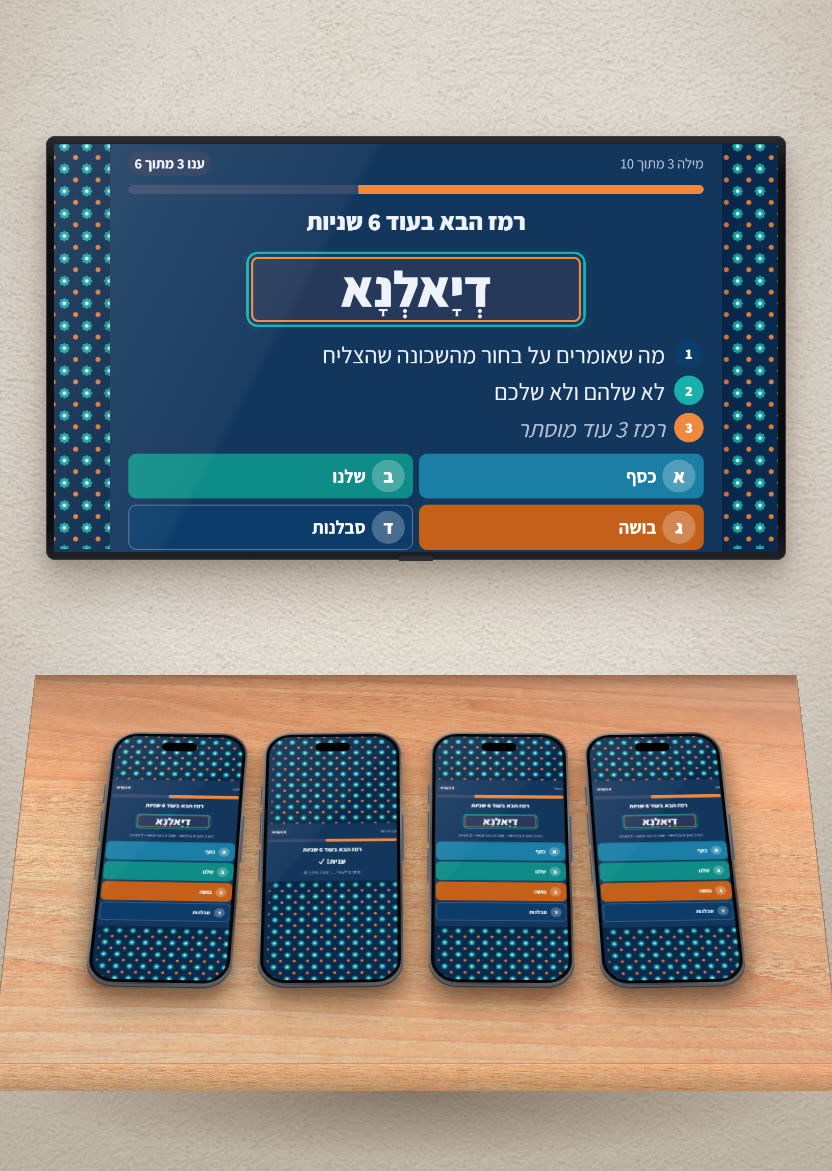
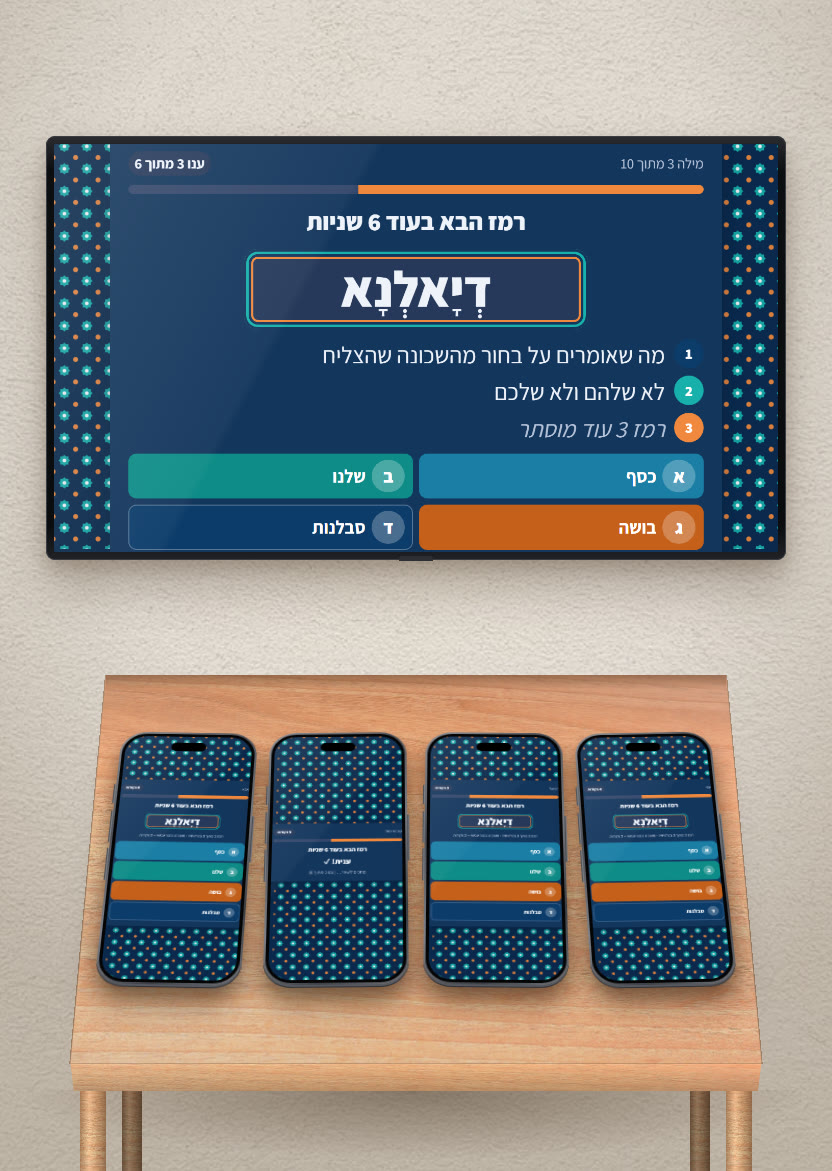
Shop: online-game image, table with legs

Changed region(s): [[0.0, 0.5534, 1.0, 1.0]]

diff --git a/index.html b/index.html
@@ -452,7 +452,7 @@ const gItem=(href,src,alt,name,sub,price,go)=>`
         <div class="pr" style="justify-content:center;gap:16px"><span>${price}</span><span class="go">${go}</span></div>
       </a>`;
 const gameCard=`<div class="grid" style="grid-template-columns:repeat(2,minmax(0,320px));justify-content:center;margin-bottom:56px">
-  ${gItem('#play','img/game-online.jpg?v=7','המשחק על מסך הטלוויזיה ובטלפונים','בטלוויזיה ובטלפון','המילה על המסך, כל אחד עונה מהטלפון','מ־'+nis(39),'לפרטים ←')}
+  ${gItem('#play','img/game-online.jpg?v=8','המשחק על מסך הטלוויזיה ובטלפונים','בטלוויזיה ובטלפון','המילה על המסך, כל אחד עונה מהטלפון','מ־'+nis(39),'לפרטים ←')}
   ${gItem('#cards','img/game-box.jpg','קלפי המשחק נעביבשק','קופסת הקלפים','120 קלפים, משחקים סביב השולחן',nis(BOX_PRICE),'לפרטים ←')}
 </div>`;
 // דף משלו למשחק (#game) — הקישור בתפריט העליון מוביל לכאן
@@ -469,7 +469,7 @@ function playView(){
   V.innerHTML=`
   <section class="wrap pp">
     <div>
-      <div class="main"><img src="img/game-online.jpg?v=7" alt="המשחק על מסך הטלוויזיה ובטלפונים"></div>
+      <div class="main"><img src="img/game-online.jpg?v=8" alt="המשחק על מסך הטלוויזיה ובטלפונים"></div>
       <a class="back" href="#game">חזרה למשחק</a>
     </div>
     <div>
